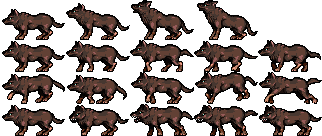
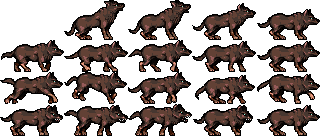
feat(enemies): introduce shared Enemy base class and add Wolf AI combat behavior
- add new `Enemy` intermediate class between `MovableObject` and concrete enemies
  - shared targeting/AI fields: `aggroRangeX`, `attackRangeX`, `attackRangeY`, `attackCooldownMs`, `lastAttackAt`
  - shared helper methods: `getCharacter`, `getCenterX`, `getCenterY`, `getDistanceToCharacter`
  - shared decision helpers: `isCharacterNearby`, `isCharacterInAttackRange`
  - shared combat helpers: `faceCharacter`, `canAttackCharacter`, `markAttack`

- migrate enemies to extend `Enemy`:
  - `Wolf`, `Slime`, `Spider`, `PredatorPlant`

- implement Wolf behavior/state flow:
  - `updateBehavior(now)` with patrol/chase/attack branching
  - `patrol()` with spawn anchor + patrol range bounds
  - `chaseCharacter(character)` with RUN animation and directional movement
  - `handleAttack(now)` with ATTACK/HOWL transitions and cooldown handling
  - animation loop now driven by behavior updates instead of static WALK playback

- add Wolf combat timing config:
  - `damageWindowStartFrame`, `damageWindowEndFrame`, `damageWindowAnimation`

- fix Wolf left/right damage consistency:
  - override `getHitbox()` to mirror hitbox offset by facing direction (`otherDirection`)
  - ensures collision/damage works on both sides while sprite is mirrored

diff --git a/models/enemies/wolf.class.js b/models/enemies/wolf.class.js
@@ -1,0 +1,219 @@
+import Enemy from "./enemy.class.js";
+
+export default class Wolf extends Enemy {
+    damage = 25;
+    energy = 50;
+    damageWindowStartFrame = 2;
+    damageWindowEndFrame = 3;
+    damageWindowAnimation = "ATTACK";
+    aggroRangeX = 320;
+    attackRangeX = 105;
+    attackRangeY = 85;
+    attackCooldownMs = 900;
+    walkSpeed = 0.65;
+    runSpeed = 5;
+    patrolRange = 240;
+    patrolDirection = -1;
+    spawnX = null;
+
+    SPRITE_ANIMATIONS = {
+        HOWL: {
+            path: "img/enemies/wolf/wolf.png",
+            frameWidth: 64,
+            frameHeight: 40,
+            frameCount: 3,
+            sourceY: 0,
+        },
+        WALK: {
+            path: "img/enemies/wolf/wolf.png",
+            frameWidth: 64,
+            frameHeight: 32,
+            frameCount: 4,
+            sourceY: 41,
+        },        
+        RUN: {
+            path: "img/enemies/wolf/wolf.png",
+            frameWidth: 64,
+            frameHeight: 32,
+            frameCount: 4,
+            sourceY: 73,
+        },
+        ATTACK: {
+            path: "img/enemies/wolf/wolf.png",
+            frameWidth: 64,
+            frameHeight: 32,
+            frameCount: 4,
+            sourceY: 105,
+        },
+    };
+
+    activeAnimation = "WALK";
+    animationCounter = 0;
+
+    
+    constructor() {
+        super();
+        this.x = 700;
+        this.y = 290;
+        this.width = 190;
+        this.height = 120;
+        this.hitboxOffsetX = 0;
+        this.hitboxOffsetY = 0;
+        this.hitboxWidth = 190;
+        this.hitboxHeight = 80;
+        this.speed = this.walkSpeed;
+        const animationPaths = Object.values(this.SPRITE_ANIMATIONS).map(
+            (config) => config.path,
+        );
+        this.loadImages(animationPaths);
+        this.switchAnimation("WALK");
+
+        this.animate();
+    }
+
+    switchAnimation(name) {
+        if (this.activeAnimation === name && this.spriteSheet) {
+            return;
+        }
+
+        const config = this.SPRITE_ANIMATIONS[name];
+        if (!config) {
+            return;
+        }
+
+        this.activeAnimation = name;
+        this.animationCounter = 0;
+        this.spriteSheet = {
+            frameWidth: config.frameWidth,
+            frameHeight: config.frameHeight,
+            frameCount: config.frameCount,
+            columns: config.frameCount,
+            sourceY: config.sourceY,
+            startRow: config.startRow ?? 0,
+            layout: "row",
+            currentFrame: 0,
+        };
+        this.img = this.imgCache[config.path];
+
+        if (!this.img) {
+            this.loadImage(config.path);
+        }
+    }
+
+    getHitbox() {
+        const width = this.hitboxWidth ?? this.width;
+        const height = this.hitboxHeight ?? this.height;
+        const baseOffsetX = this.hitboxOffsetX ?? 0;
+        const offsetY = this.hitboxOffsetY ?? 0;
+        const mirroredOffsetX = this.width - baseOffsetX - width;
+        const offsetX = this.otherDirection ? mirroredOffsetX : baseOffsetX;
+
+        return {
+            x: this.x + offsetX,
+            y: this.y + offsetY,
+            width,
+            height,
+        };
+    }
+
+    advanceSpriteAnimation(speed) {
+        if (!this.spriteSheet) {
+            return;
+        }
+
+        this.animationCounter++;
+        if (this.animationCounter % speed !== 0) {
+            return;
+        }
+
+        this.spriteSheet.currentFrame =
+            (this.spriteSheet.currentFrame + 1) % this.spriteSheet.frameCount;
+    }
+
+    ensureSpawnAnchor() {
+        if (!Number.isFinite(this.spawnX)) {
+            this.spawnX = this.x;
+        }
+    }
+
+    updateBehavior(now) {
+        this.ensureSpawnAnchor();
+
+        const character = this.getCharacter();
+        if (!character) {
+            this.patrol();
+            return;
+        }
+
+        this.faceCharacter();
+
+        if (this.isCharacterInAttackRange()) {
+            this.handleAttack(now);
+            return;
+        }
+
+        if (this.isCharacterNearby()) {
+            this.chaseCharacter(character);
+            return;
+        }
+
+        this.patrol();
+    }
+
+    handleAttack(now) {
+        this.speed = 0;
+
+        if (this.activeAnimation === "ATTACK" && !this.canAttackCharacter(now)) {
+            return;
+        }
+
+        if (this.canAttackCharacter(now)) {
+            this.markAttack(now);
+            this.switchAnimation("ATTACK");
+            return;
+        }
+
+        this.switchAnimation("HOWL");
+    }
+
+    chaseCharacter(character) {
+        this.speed = this.runSpeed;
+        this.switchAnimation("RUN");
+
+        if (character.x < this.x) {
+            this.moveLeft();
+            return;
+        }
+
+        this.moveRight();
+    }
+
+    patrol() {
+        this.speed = this.walkSpeed;
+        this.switchAnimation("WALK");
+
+        const minX = this.spawnX - this.patrolRange;
+        const maxX = this.spawnX + this.patrolRange;
+
+        if (this.x <= minX) {
+            this.patrolDirection = 1;
+        } else if (this.x >= maxX) {
+            this.patrolDirection = -1;
+        }
+
+        if (this.patrolDirection < 0) {
+            this.moveLeft();
+            return;
+        }
+
+        this.moveRight();
+    }
+
+    animate() {
+        setInterval(() => {
+            this.updateBehavior(Date.now());
+            this.advanceSpriteAnimation(14);
+        }, 1000 / 60);
+
+    }
+}

diff --git a/models/enemies/enemy.class.js b/models/enemies/enemy.class.js
@@ -1,0 +1,67 @@
+import MovableObject from "../core/movable-object.class.js";
+
+export default class Enemy extends MovableObject {
+  aggroRangeX = 280;
+  attackRangeX = 90;
+  attackRangeY = 800;
+  attackCooldownMs = 800;
+  lastAttackAt = 0;
+
+  getCharacter() {
+    return this.world?.character ?? null;
+  }
+
+  getCenterX(object = this) {
+    return object.x + object.width / 2;
+  }
+
+  getCenterY(object = this) {
+    return object.y + object.height / 2;
+  }
+
+  getDistanceToCharacter() {
+    const character = this.getCharacter();
+    if (!character) {
+      return null;
+    }
+
+    const dx = Math.abs(this.getCenterX() - this.getCenterX(character));
+    const dy = Math.abs(this.getCenterY() - this.getCenterY(character));
+    return { dx, dy, character };
+  }
+
+  isCharacterNearby() {
+    const dist = this.getDistanceToCharacter();
+    if (!dist) {
+      return false;
+    }
+
+    return dist.dx <= this.aggroRangeX && dist.dy <= this.attackRangeY;
+  }
+
+  isCharacterInAttackRange() {
+    const dist = this.getDistanceToCharacter();
+    if (!dist) {
+      return false;
+    }
+
+    return dist.dx <= this.attackRangeX && dist.dy <= this.attackRangeY;
+  }
+
+  faceCharacter() {
+    const character = this.getCharacter();
+    if (!character) {
+      return;
+    }
+
+    this.otherDirection = character.x < this.x;
+  }
+
+  canAttackCharacter(now = Date.now()) {
+    return now - this.lastAttackAt >= this.attackCooldownMs;
+  }
+
+  markAttack(now = Date.now()) {
+    this.lastAttackAt = now;
+  }
+}

diff --git a/models/core/level-builder.class.js b/models/core/level-builder.class.js
@@ -4,6 +4,7 @@ import Tileset from "../environment/tileset.class.js";
 import Slime from "../enemies/slime.class.js";
 import PredatorPlant from "../enemies/predator-plant.class.js";
 import Spider from "../enemies/spider.class.js";
+import Wolf from "../enemies/wolf.class.js";
 import DecorationObject from "../environment/decoration-object.class.js";
 import ManaStone from "../collectables/mana-stone.class.js";
 
@@ -89,6 +90,17 @@ export default class LevelBuilder {
                     spider.platformYOffset = enemy.yOffset;
                 }
                 return spider;
+            }
+
+            if (enemy.type === "wolf") {
+                const wolf = new Wolf();
+                if (typeof enemy.x === "number") {
+                    wolf.x = enemy.x;
+                }
+                if (typeof enemy.y === "number") {
+                    wolf.y = enemy.y;
+                }
+                return wolf;
             }
 
             return null;

diff --git a/models/core/drawableObject.class.js b/models/core/drawableObject.class.js
@@ -60,10 +60,13 @@ export default class DrawableObject {
   }
 
   resolveGridPosition(currentFrame, frameWidth, frameHeight, columns) {
+    const sourceY = Number.isFinite(this.spriteSheet.sourceY)
+      ? this.spriteSheet.sourceY
+      : (this.spriteSheet.startRow ?? 0) * frameHeight;
+
     return {
       frameX: (currentFrame % columns) * frameWidth,
-      frameY: Math.floor(currentFrame / columns) * frameHeight + (this.spriteSheet.startRow ?? 0) * frameHeight,
+      frameY: Math.floor(currentFrame / columns) * frameHeight + sourceY,
     };
   }
-
 }

diff --git a/models/enemies/predator-plant.class.js b/models/enemies/predator-plant.class.js
@@ -1,6 +1,6 @@
-import MovableObject from "../core/movable-object.class.js";
+import Enemy from "./enemy.class.js";
 
-export default class PredatorPlant extends MovableObject {
+export default class PredatorPlant extends Enemy {
     damage = 10;
     energy = 10;
     damageWindowStartFrame = 5;

diff --git a/models/enemies/slime.class.js b/models/enemies/slime.class.js
@@ -1,6 +1,6 @@
-import MovableObject from "../core/movable-object.class.js";
+import Enemy from "./enemy.class.js";
 
-export default class Slime extends MovableObject {
+export default class Slime extends Enemy {
     damage = 10;
     energy= 10;
 

diff --git a/models/enemies/spider.class.js b/models/enemies/spider.class.js
@@ -1,6 +1,6 @@
-import MovableObject from "../core/movable-object.class.js";
+import Enemy from "./enemy.class.js";
 
-export default class Spider extends MovableObject {
+export default class Spider extends Enemy {
     damage = 10;
     energy = 10;
     damageWindowStartFrame = 0;

diff --git a/models/core/movable-object.class.js b/models/core/movable-object.class.js
@@ -46,6 +46,7 @@ export default class MovableObject extends DrawableObject {
       this.constructor?.name === "Slime" ||
       this.constructor?.name === "PredatorPlant" ||
       this.constructor?.name === "Spider" ||
+      this.constructor?.name === "Wolf" ||
       this.constructor?.name === "Tileset";
 
     if (shouldDrawBoundingBox) {
@@ -211,5 +212,5 @@ export default class MovableObject extends DrawableObject {
       this.initiateAnimation(10, this.IMAGES_DYING);
     }
   }
-
 }
+    

diff --git a/levels/level1.js b/levels/level1.js
@@ -15,6 +15,7 @@ const level1 = new Level({
     { type: "slime" },
     { type: "predatorPlant", x: 980, yOffset: -85 },
     { type: "spider", x: 1380, yOffset: -80 },
+    { type: "wolf", x: 3400, y: 298 },
   ],
   backgroundLayers: [
     { type: "background", imagePath: "img/backgrounds/sky.png", parallaxFactor: 0.32 },